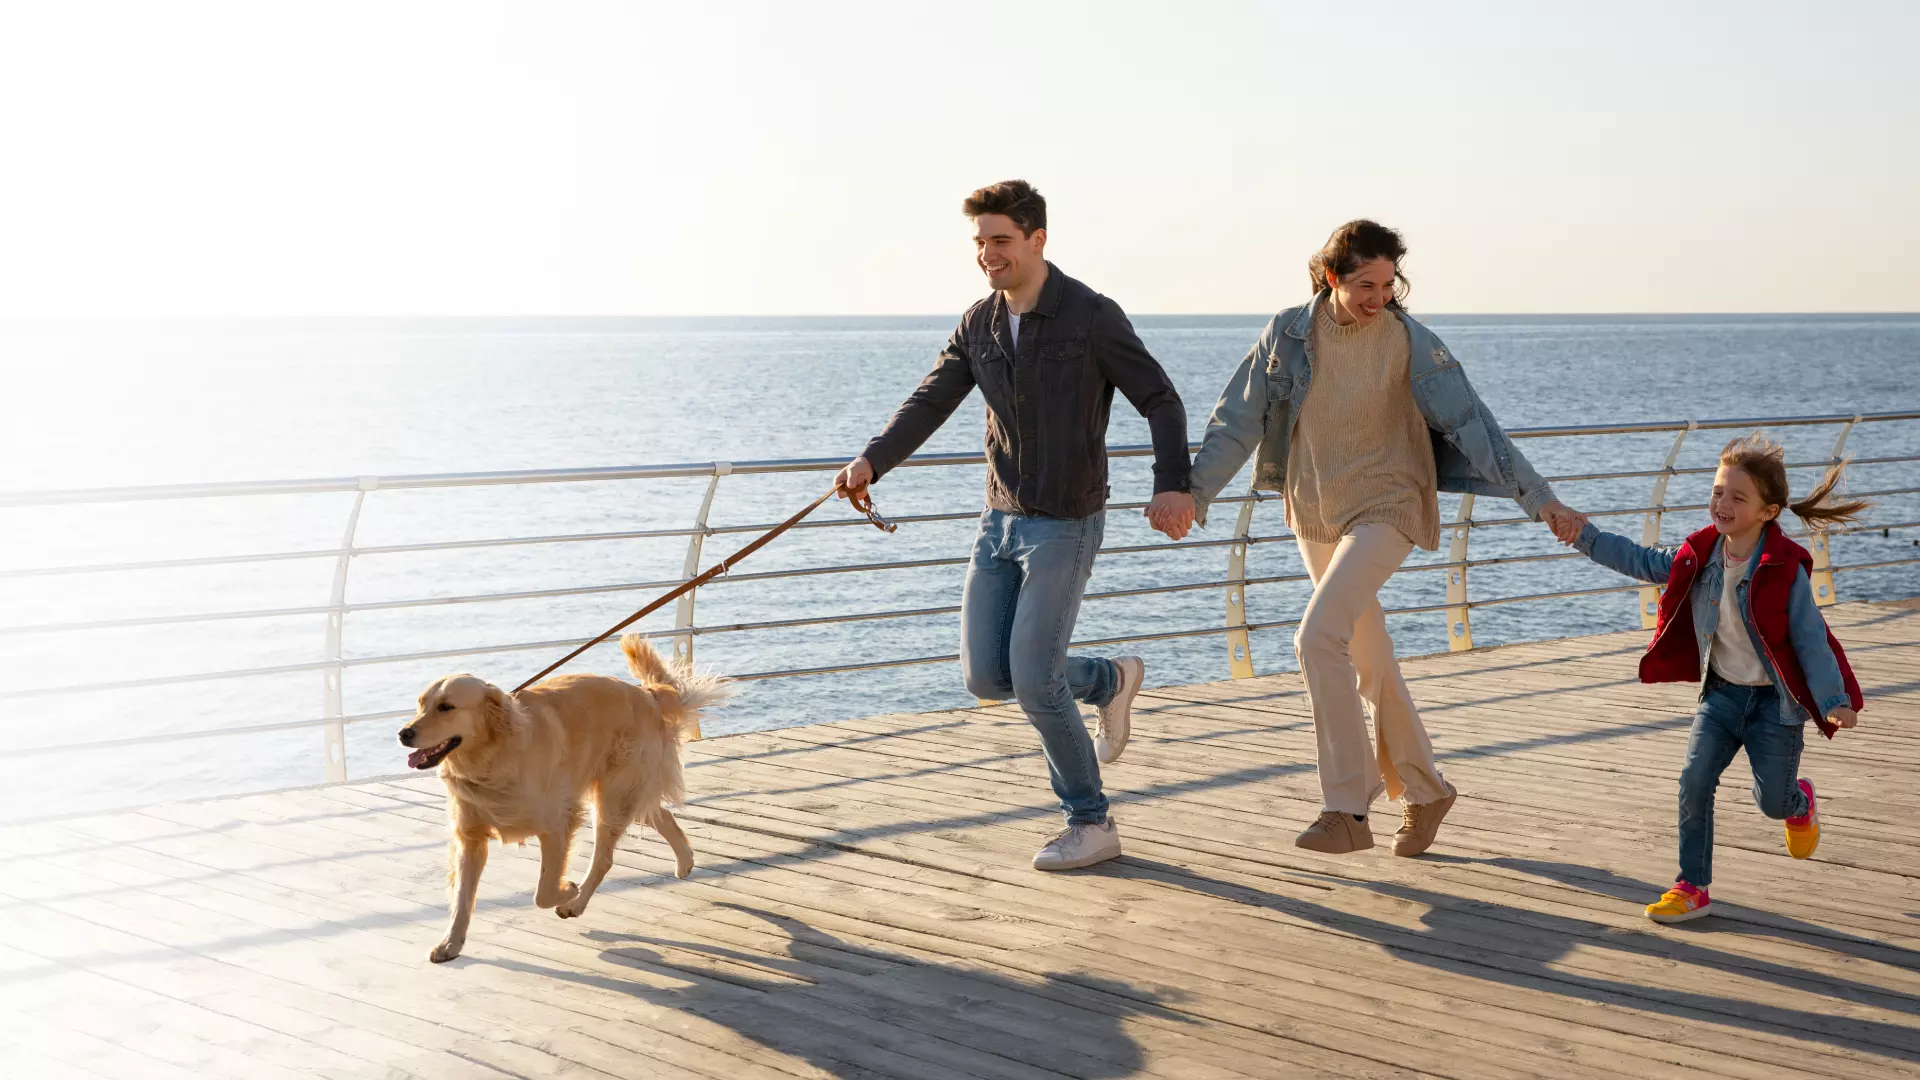
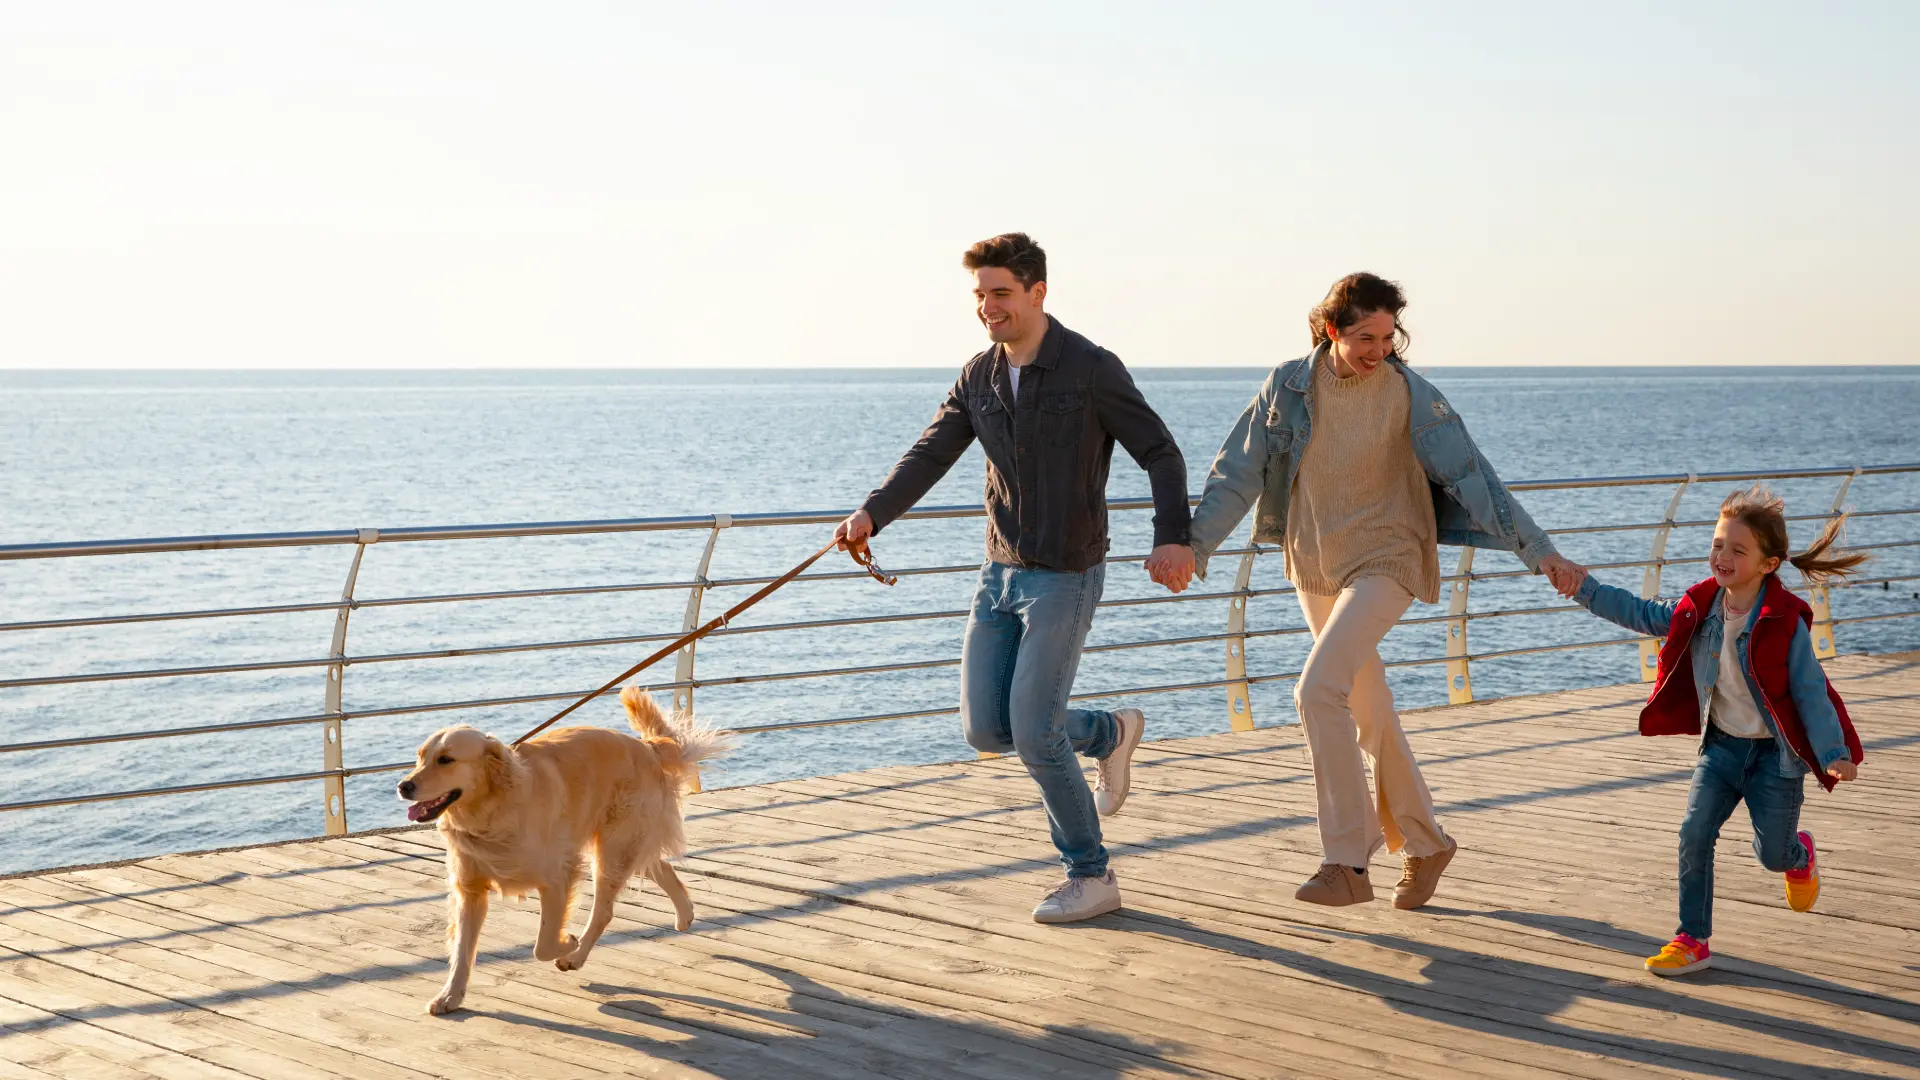
feat: update color variables and improve quiz styling

diff --git a/src/styles/global.css b/src/styles/global.css
@@ -23,9 +23,10 @@
 
 @theme{
   --color-amarillo-abbott: #ffd100;
-  --color-morado-abbott: #b50064;
+  --color-morado-abbott: #aa0061;
   --color-futzia-abbott: #e22a31;
-  --color-orange-abbott: #e86408;
+  --color-orange-abbott: #ff6900;
+  --color-red-abbott: #e4002b;
 
   --font-brandon: "Brandon", sans-serif;
   --font-georgia: Georgia, serif;
